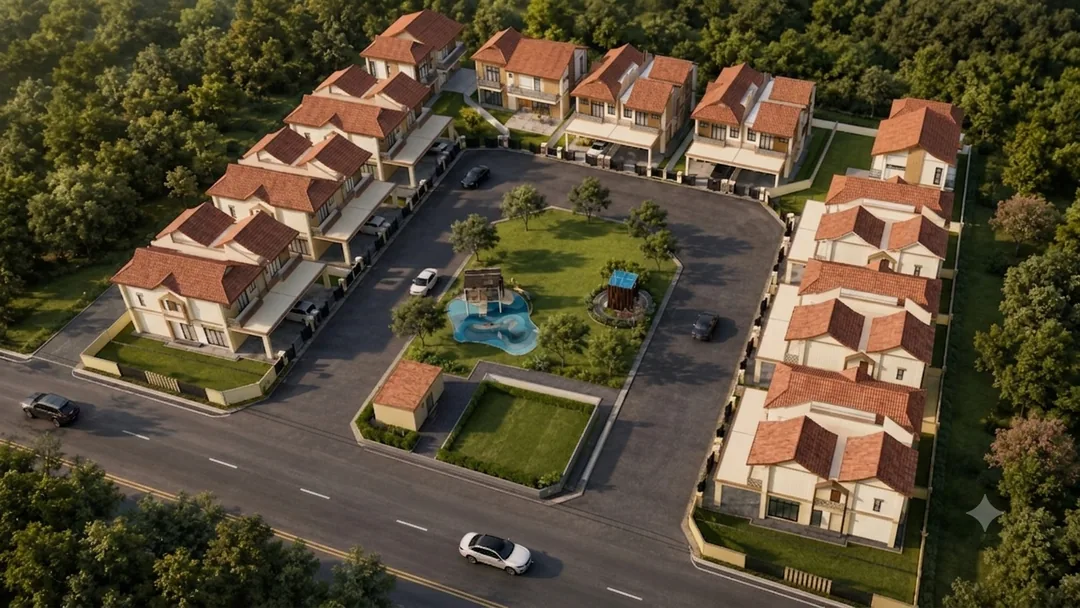
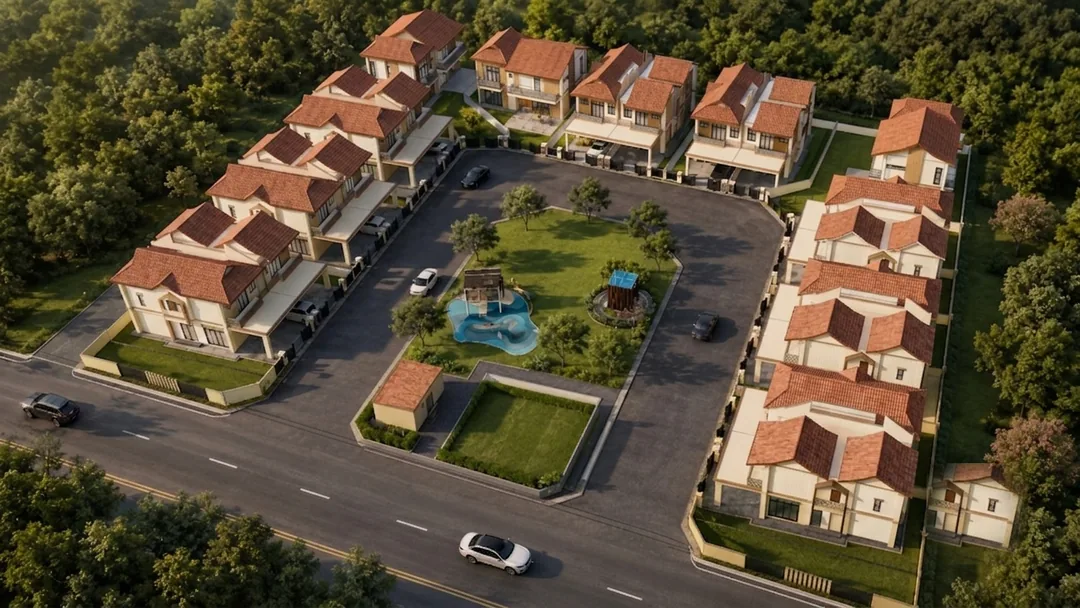
Remove Gemini watermark from the three renders
Clean the sparkle watermark out of the aerial, semi-detached and bungalow
renders and regenerate every WebP variant at full quality. Aerial (grass)
and bungalow (door) came out clean via clone; the semi-D watermark sat
directly against the car, so it's inpainted + re-grained (a faint soft spot
remains on the road, subtle at display size).

Changed region(s): [[0.8556, 0.75, 0.9778, 0.9375]]

diff --git a/index.html b/index.html
@@ -46,7 +46,7 @@
 <meta name="twitter:image:alt" content="Panthera Bertam, bungalow artist's impression">
 
 <!-- Performance: preload critical above-the-fold assets -->
-<link rel="preload" as="image" href="assets/hero-aerial-dusk.webp?v=4" imagesrcset="assets/hero-aerial-dusk-768.webp?v=4 768w, assets/hero-aerial-dusk-1080.webp?v=4 1080w, assets/hero-aerial-dusk.webp?v=4 1365w" imagesizes="100vw" fetchpriority="high">
+<link rel="preload" as="image" href="assets/hero-aerial-dusk.webp?v=5" imagesrcset="assets/hero-aerial-dusk-768.webp?v=5 768w, assets/hero-aerial-dusk-1080.webp?v=5 1080w, assets/hero-aerial-dusk.webp?v=5 1365w" imagesizes="100vw" fetchpriority="high">
 <link rel="preload" as="image" href="assets/panthera-logo-full.png">
 
 <!-- Fonts -->
@@ -303,7 +303,7 @@
 <!-- ─── HERO ──────────────────────────────────── -->
 <section class="hero hero--cinematic" data-screen-label="01 Hero">
   <figure class="hero-bg">
-    <img class="hero-slide" src="assets/hero-aerial-dusk.webp?v=4" srcset="assets/hero-aerial-dusk-768.webp?v=4 768w, assets/hero-aerial-dusk-1080.webp?v=4 1080w, assets/hero-aerial-dusk.webp?v=4 1365w" sizes="100vw" alt="Aerial view of Panthera Bertam at golden hour, homes around the shared central green, artist's impression" fetchpriority="high">
+    <img class="hero-slide" src="assets/hero-aerial-dusk.webp?v=5" srcset="assets/hero-aerial-dusk-768.webp?v=5 768w, assets/hero-aerial-dusk-1080.webp?v=5 1080w, assets/hero-aerial-dusk.webp?v=5 1365w" sizes="100vw" alt="Aerial view of Panthera Bertam at golden hour, homes around the shared central green, artist's impression" fetchpriority="high">
   </figure>
   <div class="hero-scrim" aria-hidden="true"></div>
 
@@ -432,7 +432,7 @@
     </div>
 
     <figure class="render-band" data-reveal>
-      <img src="assets/hero-2.webp?v=4" srcset="assets/hero-2-768.webp?v=4 768w, assets/hero-2-1080.webp?v=4 1080w, assets/hero-2.webp?v=4 1349w" sizes="(min-width: 1200px) 1100px, 100vw" width="1349" height="784" alt="Semi-Detached homes at Panthera Bertam at golden hour, artist's impression" loading="lazy">
+      <img src="assets/hero-2.webp?v=5" srcset="assets/hero-2-768.webp?v=5 768w, assets/hero-2-1080.webp?v=5 1080w, assets/hero-2.webp?v=5 1349w" sizes="(min-width: 1200px) 1100px, 100vw" width="1349" height="784" alt="Semi-Detached homes at Panthera Bertam at golden hour, artist's impression" loading="lazy">
     </figure>
 
     <article class="product" data-reveal>
@@ -527,7 +527,7 @@
     </div>
 
     <figure class="render-band" data-reveal>
-      <img src="assets/hero-3.webp?v=4" srcset="assets/hero-3-768.webp?v=4 768w, assets/hero-3-1080.webp?v=4 1080w, assets/hero-3.webp?v=4 1389w" sizes="(min-width: 1200px) 1100px, 100vw" width="1389" height="768" alt="A Panthera Bertam bungalow at golden hour, artist's impression" loading="lazy">
+      <img src="assets/hero-3.webp?v=5" srcset="assets/hero-3-768.webp?v=5 768w, assets/hero-3-1080.webp?v=5 1080w, assets/hero-3.webp?v=5 1389w" sizes="(min-width: 1200px) 1100px, 100vw" width="1389" height="768" alt="A Panthera Bertam bungalow at golden hour, artist's impression" loading="lazy">
     </figure>
 
     <article class="product product--flip" data-reveal>
